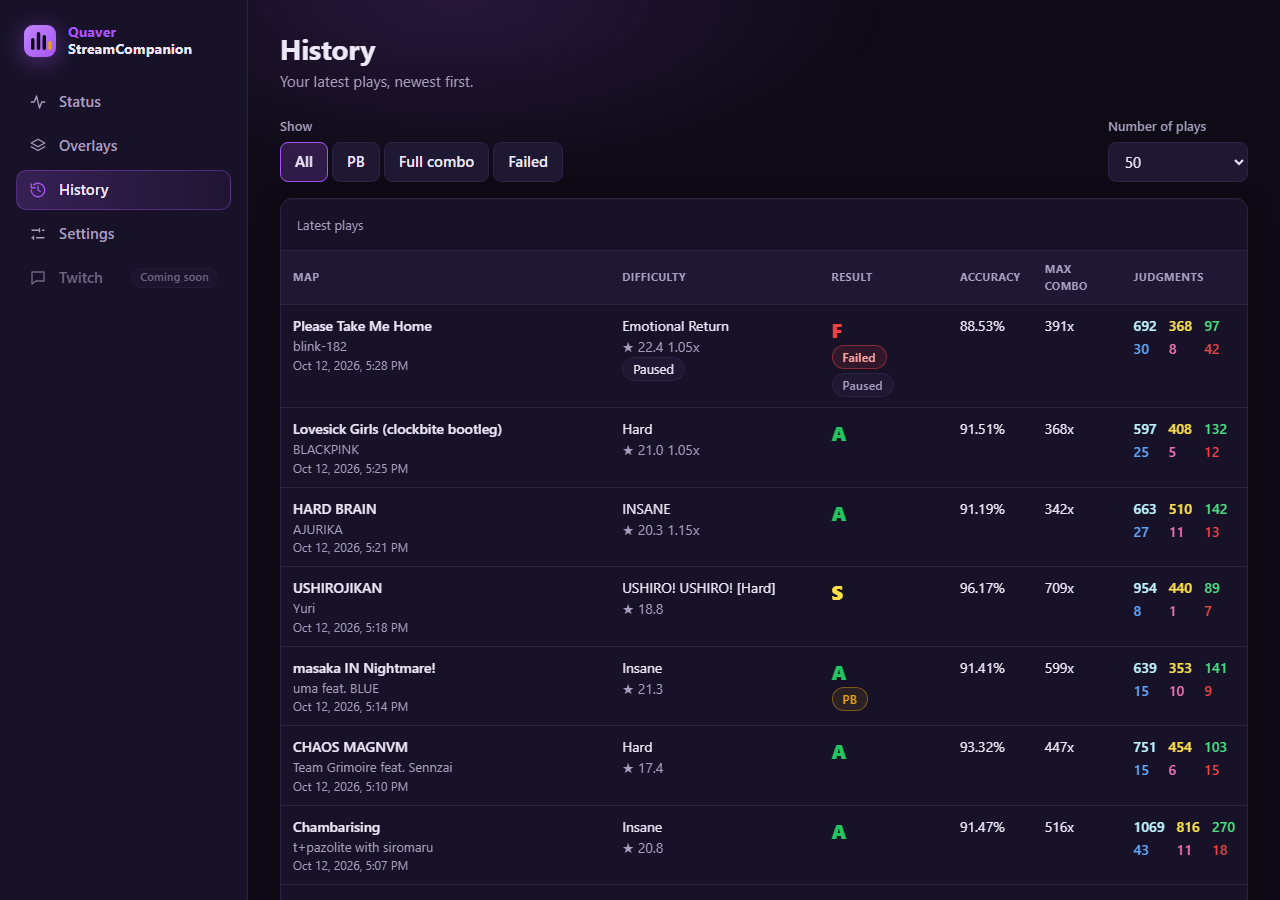
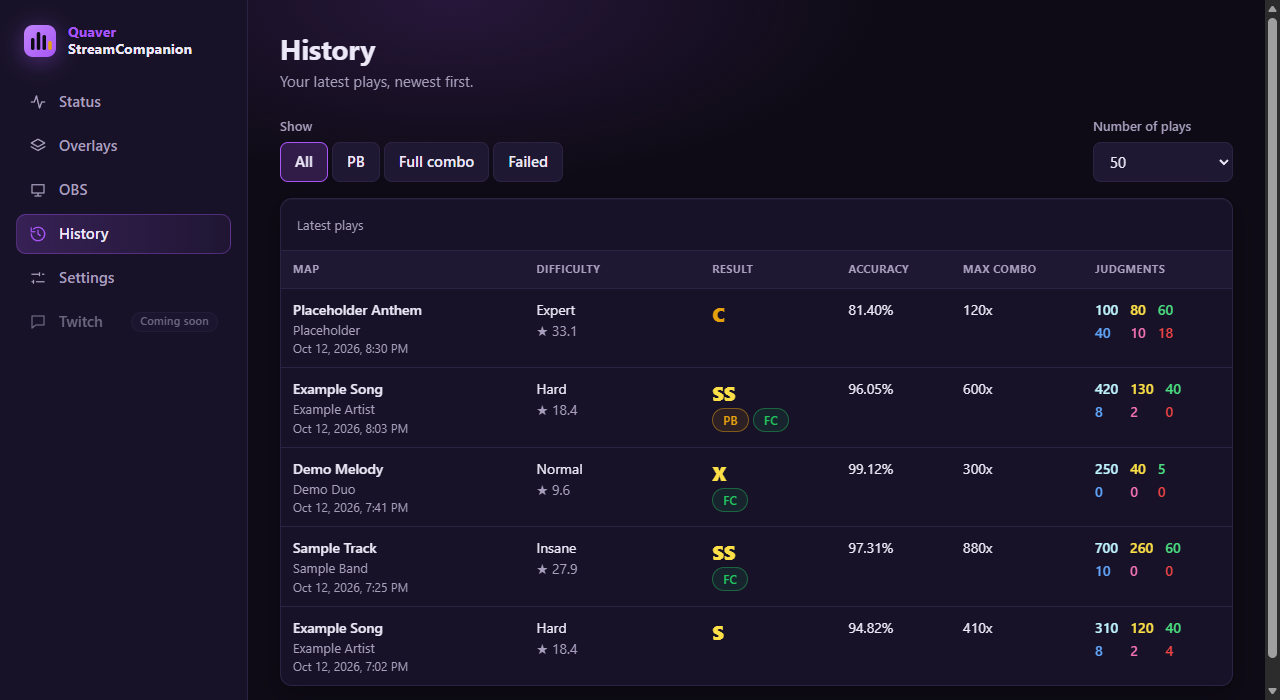
docs: refresh the README and screenshots

diff --git a/web/docs_test.go b/web/docs_test.go
@@ -4,6 +4,7 @@ import (
 	"io/fs"
 	"os"
 	"path/filepath"
+	"regexp"
 	"strings"
 	"testing"
 )
@@ -41,6 +42,53 @@ func TestDocsHaveNoDashes(t *testing.T) {
 	for _, rel := range []string{"README.md", "docs/THEMES.md", "docs/OBS.md"} {
 		if strings.ContainsAny(readDoc(t, rel), string([]rune{0x2014, 0x2013})) {
 			t.Errorf("%s contains an em or en dash", rel)
+		}
+	}
+}
+
+func TestREADMELinksGuidesOverlaysAndScreenshots(t *testing.T) {
+	readme := readDoc(t, "README.md")
+	guides, err := filepath.Glob(filepath.Join("..", "docs", "*.md"))
+	if err != nil || len(guides) == 0 {
+		t.Fatalf("no guides found: %v", err)
+	}
+	for _, g := range guides {
+		if rel := "docs/" + filepath.Base(g); !strings.Contains(readme, "]("+rel) {
+			t.Errorf("README.md does not link %s", rel)
+		}
+	}
+	dirs, err := fs.ReadDir(FS, "overlays")
+	if err != nil {
+		t.Fatal(err)
+	}
+	for _, d := range dirs {
+		if d.IsDir() && !strings.Contains(readme, "/overlays/"+d.Name()+"/") {
+			t.Errorf("README.md does not list overlay %q", d.Name())
+		}
+	}
+	refs := regexp.MustCompile(`docs/screenshots/[A-Za-z0-9_-]+\.png`).FindAllString(readme, -1)
+	if len(refs) < 6 {
+		t.Errorf("README.md references %d screenshots, want at least 6", len(refs))
+	}
+	for _, r := range refs {
+		if _, err := os.Stat(filepath.Join("..", r)); err != nil {
+			t.Errorf("screenshot %s is missing: %v", r, err)
+		}
+	}
+}
+
+func TestAllDocsHaveNoDashes(t *testing.T) {
+	files, err := filepath.Glob(filepath.Join("..", "docs", "*.md"))
+	if err != nil {
+		t.Fatal(err)
+	}
+	for _, f := range append(files, filepath.Join("..", "README.md")) {
+		b, err := os.ReadFile(f)
+		if err != nil {
+			t.Fatal(err)
+		}
+		if strings.ContainsAny(string(b), string([]rune{0x2014, 0x2013})) {
+			t.Errorf("%s contains an em or en dash", f)
 		}
 	}
 }

diff --git a/README.md b/README.md
@@ -26,7 +26,19 @@ It runs next to the game, keeps everything on your machine, and gives OBS a read
 
 > **Unofficial project.** Not affiliated with Quaver, and not related to the osu! StreamCompanion tool despite the similar name.
 
-> **Status: early development (v0).** The core (game state, maps, scores, local server, a first overlay) is being built first. Everything under [Roadmap](#roadmap) is planned, not shipped yet.
+> **Status: release pending.** The features below are built and tested on Windows; the first tagged release has not been published yet, so build from source until it is. What is planned is listed under [Roadmap](#roadmap).
+
+---
+
+## Features
+
+- **Seven overlays** for OBS browser sources: now playing, result, history, state, alert, lane keys and judgment curve (see [Overlays](#overlays))
+- **11 built-in themes** and an accent color, plus [custom themes](docs/THEMES.md) and [custom overlays](docs/OVERLAYS.md) you drop in a folder
+- **A local dashboard**: live status, overlay links with a theme picker, an OBS setup guide, your play history and settings, in English, French and German
+- **A JSON and live-event API** for your own overlays and scripts
+- **Judgment timeline**: the accuracy curve of a saved play, built from the score database
+- **Degraded mode**: if Quaver is not found, `qsc` still starts and tells you what to fix
+- **Opt-in lane keys and KPS** (Windows only), off by default
 
 ---
 
@@ -39,7 +51,19 @@ QuaverStreamCompanion only reads files that Quaver already writes itself:
 | `Logs/runtime.log` | Live game state (menu, select, loading, gameplay, results) and the "score saved" signal |
 | `quaver.db` | Map being played and the result of each play (opened **read-only**) |
 
-The one optional exception is the lane keys overlay (see [Lane keys](#lane-keys)), which is off by default. Apart from it, `qsc` never reads game memory, never modifies or injects into the game, never talks to the game's internal ports, and never writes anything to the Quaver folder. There is no telemetry, and the server listens on `127.0.0.1` only (requests with another `Host` header are rejected). `qsc` never opens a browser by itself: it only does so with `--open`.
+The one optional exception is the lane keys overlay (see [Lane keys](#lane-keys)), which is off by default and works on Windows only. Apart from it, `qsc` never reads game memory, never modifies or injects into the game, never talks to the game's internal ports, and never writes anything to the Quaver folder. There is no telemetry, no account and no online service: nothing is ever sent anywhere, and the server listens on `127.0.0.1` only (requests with another `Host` header are rejected). `qsc` never opens a browser by itself: it only does so with `--open`.
+
+---
+
+## Compatibility
+
+| Platform | Status |
+|----------|--------|
+| Windows 10 and later | Tested |
+| Linux with Steam and Proton | Best effort. Steam layouts (native, Flatpak, Snap, extra libraries) are covered by tests that simulate them, but it has not been run on a real Linux machine yet |
+| macOS | Untested |
+
+Lane keys and KPS work on Windows only for now. See the [installation guide](docs/INSTALL.md#linux-and-proton) for the Linux details.
 
 ---
 
@@ -105,7 +129,7 @@ The dashboard is served at `http://127.0.0.1:7878/` and needs nothing but a brow
 | **Overlays** | Copy the OBS browser source link, pick a theme from the visual theme picker (built-in or your own custom themes) and an accent color, preview the result, and save it as your default look |
 | **OBS** | A step by step guide to add the overlays to OBS, with the recommended sizes, copyable links and a connection check |
 | **History** | Your recent plays: map, difficulty with rate and mods, grade, accuracy, max combo and judgments |
-| **Settings** | Quaver folder, port and dashboard language |
+| **Settings** | Quaver folder, port, dashboard language and the opt-in lane keys card |
 
 A **Twitch** tab is shown as "coming soon"; nothing behind it exists yet. The dashboard is available in English, French and German.
 
@@ -113,10 +137,10 @@ A **Twitch** tab is shown as "coming soon"; nothing behind it exists yet. The da
 
 ## Themes
 
-The overlay comes with 11 built-in themes, and you can add your own.
+Overlays come with 11 built-in themes, and you can add your own.
 
 <p align="center">
-  <img src="docs/screenshots/themes.png" alt="The built-in overlay themes shown side by side on the Overlays page" width="800">
+  <img src="docs/screenshots/themes.png" alt="The result overlay in each of the 11 built-in themes" width="800">
 </p>
 
 | Theme id | Palette |
@@ -141,17 +165,25 @@ Palettes are credited to Catppuccin, Tokyo Night, Dracula, Nord, Gruvbox and Ros
 
 ## Screenshots
 
+All screenshots use synthetic data.
+
 <p align="center">
-  <img src="docs/screenshots/status.png" alt="Status page showing the live game state, the current map and the setup checks" width="800">
+  <img src="docs/screenshots/status.png" alt="Status page showing the live game state, the last play and the setup checks" width="800">
 </p>
 <p align="center">
-  <img src="docs/screenshots/overlays.png" alt="Overlays page with the browser source link, theme and accent color choices, and a preview" width="800">
+  <img src="docs/screenshots/overlays.png" alt="Overlays page with the browser source link, the theme picker, accent color and a preview" width="800">
+</p>
+<p align="center">
+  <img src="docs/screenshots/overlays-together.png" alt="Now playing, result, judgment curve, lane keys, alert and history overlays shown together" width="800">
+</p>
+<p align="center">
+  <img src="docs/screenshots/obs.png" alt="OBS page with the step by step guide and the link and size of every overlay" width="800">
 </p>
 <p align="center">
   <img src="docs/screenshots/history.png" alt="History page listing recent plays with accuracy, max combo and judgments" width="800">
 </p>
 <p align="center">
-  <img src="docs/screenshots/settings.png" alt="Settings page with the Quaver folder, port and language" width="800">
+  <img src="docs/screenshots/settings.png" alt="Settings page with the Quaver folder, port, language and the lane keys card" width="800">
 </p>
 
 ---
@@ -267,9 +299,11 @@ The server only answers requests whose Host is `127.0.0.1:<port>` or `localhost:
 
 - [x] Game state, map and score events, local server, first overlay
 - [x] Settings dashboard in the browser
-- [ ] Replay analysis after each play (timing graph, early / late split)
-- [ ] Quaver public API: profile, rank
+- [x] Judgment curve of the last play, from the score database
+- [ ] Replay analysis after each play (early / late split). Parked: it needs reading replay files
+- [ ] Quaver public API: profile, rank (parked: it would be the first online feature, so it needs an explicit opt-in design)
 - [ ] Optional Twitch module: chat commands (`!map`, `!last`, `!pb`) and personal best / full combo alerts
+- [x] Custom overlays folder, lane keys and KPS overlay (Windows), degraded mode without Quaver
 - [x] 11 ready-made themes (Catppuccin, Tokyo Night, Dracula, Nord, Gruvbox, Rose Pine, Pixel, Neon Cosy...) and a guide to make your own
 - [ ] Windows `.exe`, Linux binaries and AppImage releases (release workflow added, first release pending)
 
@@ -294,6 +328,23 @@ go test ./...
 
 ---
 
-## License
+## Guides
 
-MIT. See [LICENSE](LICENSE).
+| Guide | What it covers |
+|-------|----------------|
+| [Installation](docs/INSTALL.md) | Download, checksums, startup on Windows and Linux, updating, uninstalling |
+| [OBS setup](docs/OBS.md) | Adding the overlays to OBS, sizes, troubleshooting |
+| [Overlays](docs/OVERLAYS.md) | Overlay options, the data reference and how to build your own overlay |
+| [Themes](docs/THEMES.md) | Making a theme, the tokens, credits and licenses |
+
+---
+
+## Contributing
+
+Issues and pull requests are welcome. Run `gofmt -l .`, `go vet ./...` and `go test ./...` before sending a change. To add a built-in theme, follow [Contributing a built-in theme](docs/THEMES.md#contributing-a-built-in-theme). The web files are plain HTML, CSS and JavaScript with no build step and no remote resources.
+
+---
+
+## License and credits
+
+`qsc` is MIT licensed. See [LICENSE](LICENSE). Theme palettes come from Catppuccin, Tokyo Night, Dracula, Nord, Gruvbox and Rose Pine (all MIT), and the Pixel theme uses the VT323 font by Peter Hull under the SIL Open Font License 1.1 ([license text](web/themes/fonts/OFL.txt)). The full table is in the [theme guide](docs/THEMES.md#credits-and-licenses).
